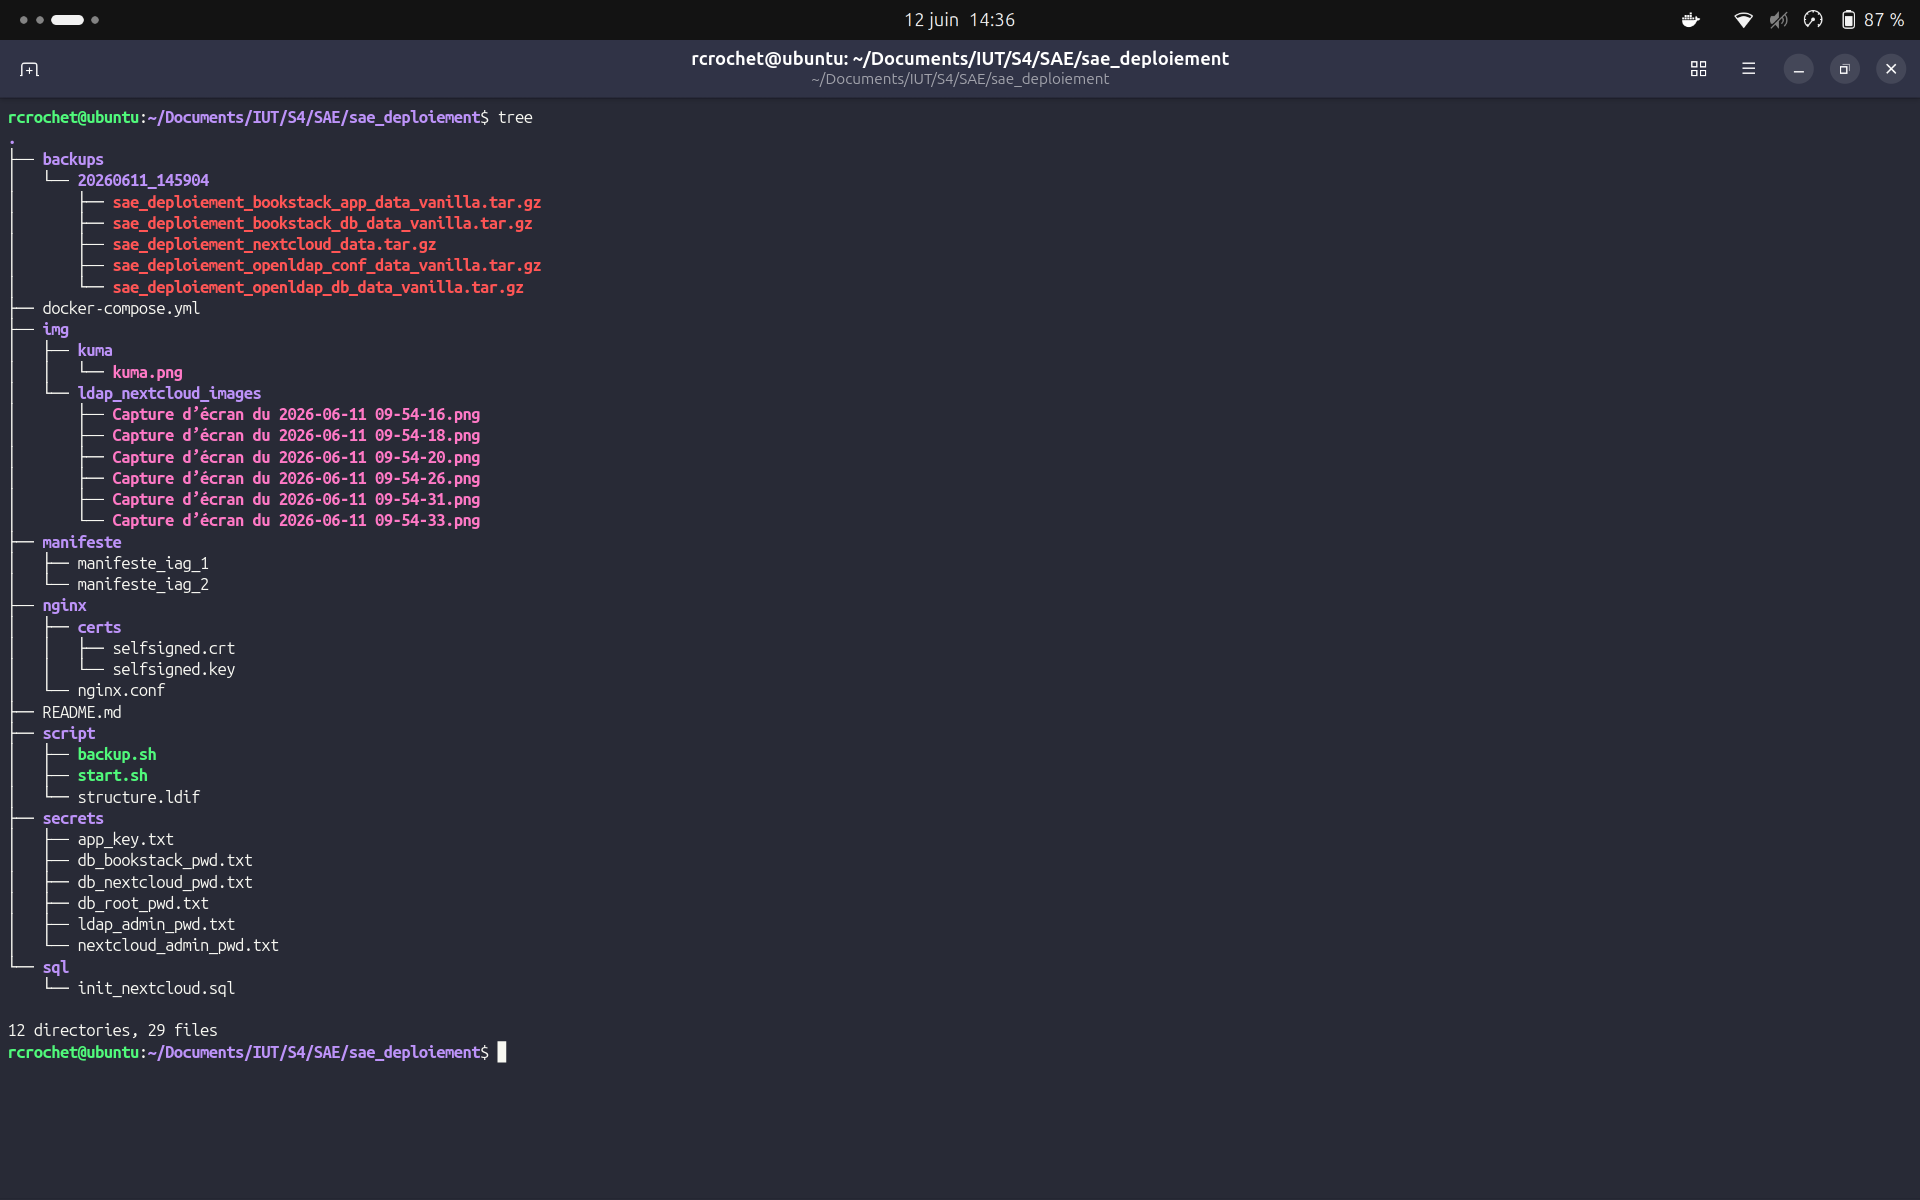
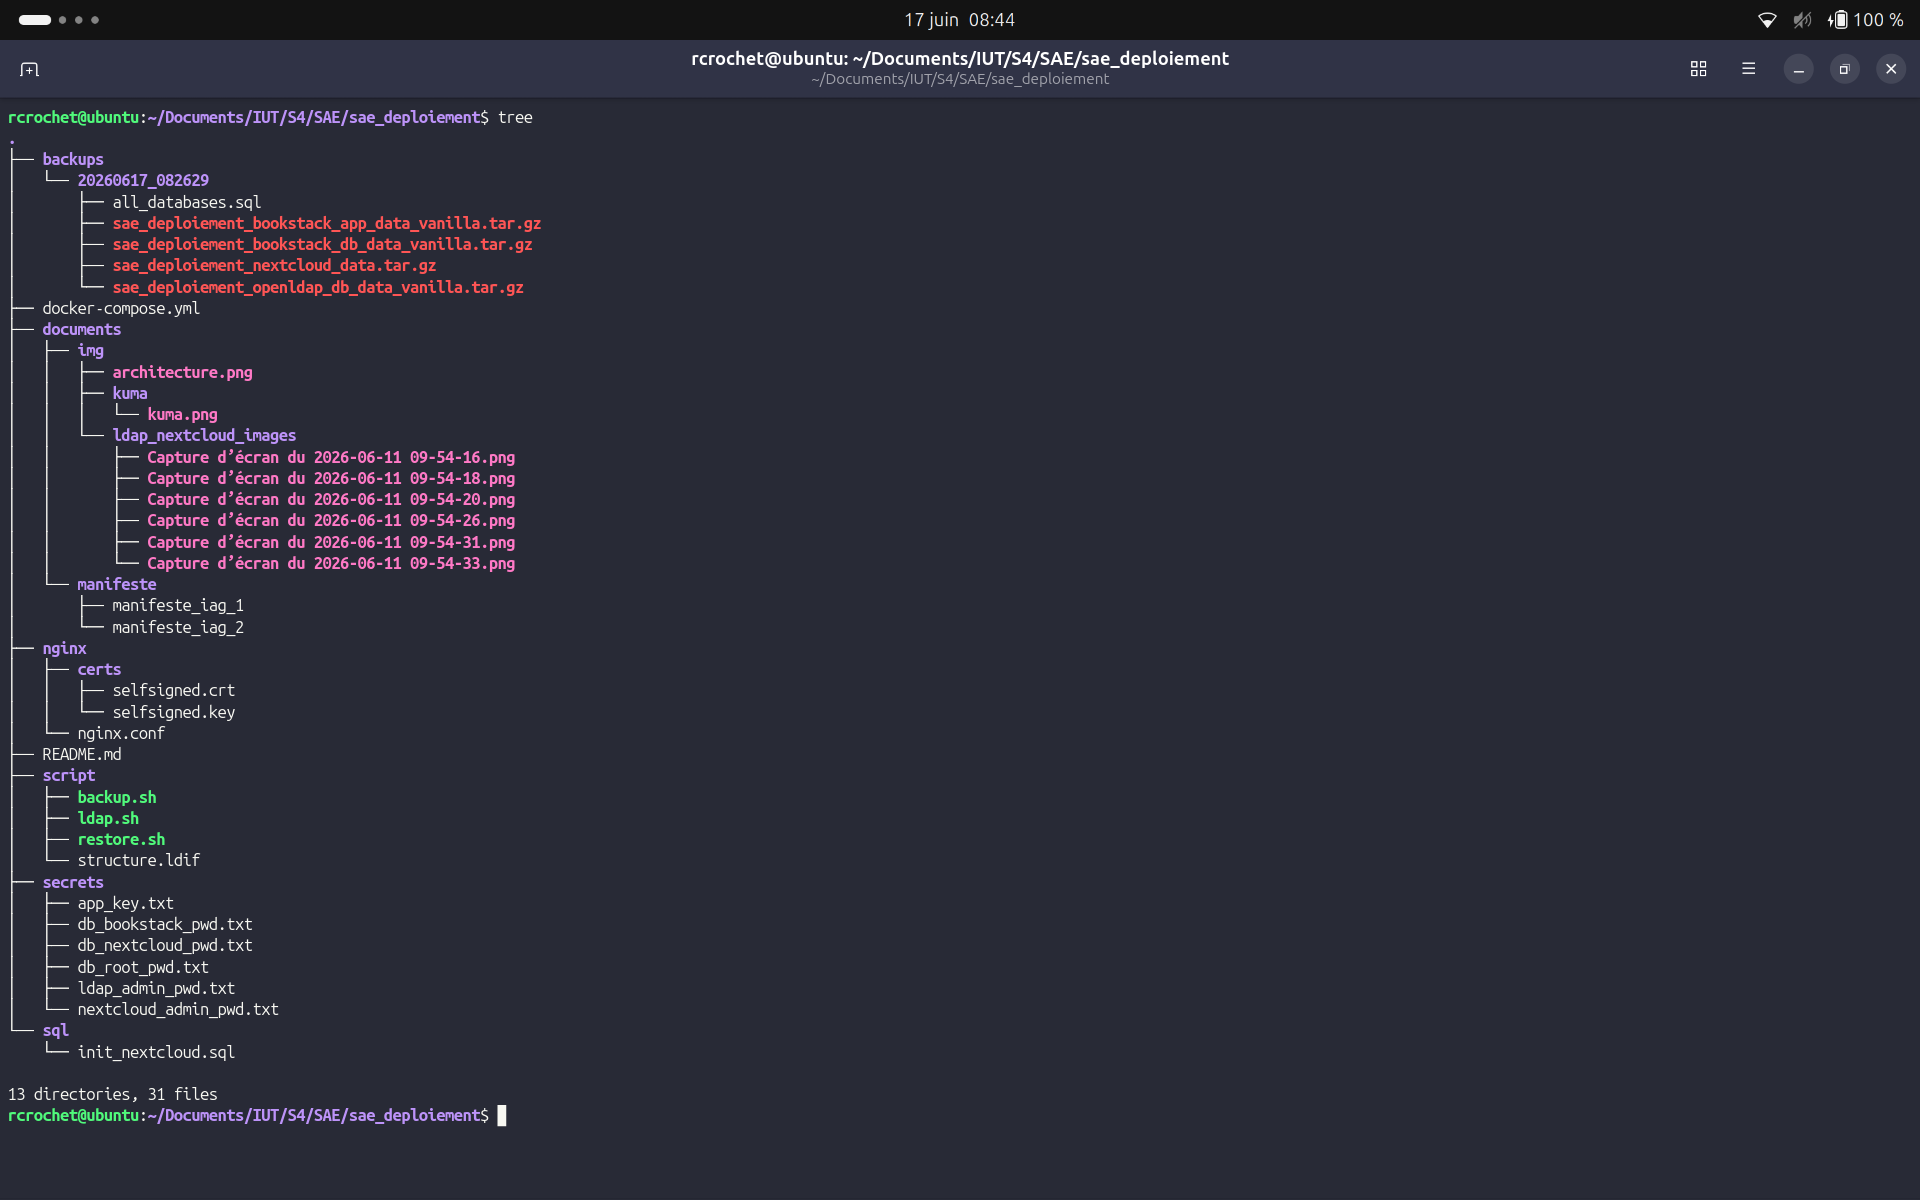
docs

diff --git a/README.md b/README.md
@@ -19,7 +19,7 @@ Nous avons structuré notre projet de manière professionnelle avec des dossiers
 
 ![Architecture du projet](documents/img/architecture.png)
 
-Notre infrastructure orchestre désormais **6 conteneurs interconnectés** :
+Notre infrastructure orchestre désormais **7 conteneurs interconnectés** :
 
 1. **MariaDB** : La base de données relationnelle mutualisée pour BookStack et Nextcloud (Réseau interne).
 2. **OpenLDAP** : Notre serveur d'annuaire local, configuré sur `dc=mongroupe,dc=local`.
@@ -27,6 +27,7 @@ Notre infrastructure orchestre désormais **6 conteneurs interconnectés** :
 4. **Nextcloud** : Le service de stockage et de partage de fichiers (Isolé sur le réseau interne).
 5. **phpLDAPadmin** : L'interface web d'administration de l'annuaire (Isolée sur le réseau interne).
 6. **Nginx (Reverse Proxy)** : Le point d'entrée public de notre serveur.
+7. **Uptime Kuma (Supervision)** : L'application Web de surveillance des services.
 
 ---
 
@@ -48,31 +49,31 @@ Afin de simuler un environnement de production réaliste, nous avons déployé u
 
 ---
 
-## 4. Déploiement et Automatisation de l'Infrastructure
+## 4. Tutoriel de Déploiement
 
-Pour garantir un déploiement propre et reproductible sans intervention manuelle à l'intérieur des conteneurs, nous avons poussé l'automatisation à son maximum (*Infrastructure as Code*).
+Pour garantir un déploiement propre et reproductible, voici la marche à suivre étape par étape :
 
-### Gestion Sécurisée des Mots de Passe (Docker Secrets)
+1. **Démarrage de l'infrastructure :** Lancer les conteneurs en arrière-plan avec la commande :
+```bash
+   docker compose up -d
 
-Pour éviter de stocker des informations sensibles en clair dans le fichier `docker-compose.yml`, nous avons implémenté les **Docker Secrets**. Les mots de passe sont stockés dans des fichiers texte isolés et injectés en toute sécurité directement dans la RAM des conteneurs (ex: `/run/secrets/db_root_pwd`).
+```
 
-### Automatisation de la Base de Données
+2. **Initialisation :** Patienter quelques instants que tous les services soient pleinement opérationnels (notamment le temps que MariaDB s'initialise et que Nextcloud termine son installation silencieuse).
+3. **Injection de l'annuaire LDAP :** Exécuter le script dédié pour peupler l'arborescence et créer les utilisateurs de test :
 
-Le conteneur MariaDB crée nativement la base `bookstackapp` via ses variables d'environnement. Pour Nextcloud, nous avons monté le fichier `sql/init_nextcloud.sql` dans le dossier `/docker-entrypoint-initdb.d/`. Au premier lancement, MariaDB lit ce script et crée automatiquement la base et l'utilisateur `nextcloud`.
+```bash
+   ./script/ldap.sh
 
-### Installation "Zero-Touch" de Nextcloud
+```
 
-Afin d'éviter d'avoir à remplir la page d'installation manuelle de Nextcloud, nous avons injecté les variables `NEXTCLOUD_ADMIN_USER` et `NEXTCLOUD_ADMIN_PASSWORD_FILE`. Cela permet à l'application de s'installer silencieusement en arrière-plan et de se lier à la base de données automatiquement au premier démarrage.
-
-### Automatisation du LDAP et Lancement
-
-Plutôt que de taper une simple commande `docker compose up`, nous avons créé le script `script/start.sh`. Il exécute la commande `ldapadd` depuis la machine hôte pour injecter notre fichier `structure.ldif`. Ce fichier crée l'arborescence (`ou=users`, `ou=groups`) et génère 3 scientifiques de test (Einstein, Curie, Turing).
+4. **Connexion :** L'infrastructure est prête. Vous pouvez vous connecter aux différentes interfaces via votre navigateur (ex: `https://bookstack.mongroupe.local`).
 
 ---
 
 ## 5. Intégration LDAP dans Nextcloud
 
-L'intégration de l'annuaire dans Nextcloud s'effectue via son interface d'administration, en paramétrant finement les filtres de recherche. Nous avons ajouté un dossier `ldap_nextcloud_images` qui permet de visualiser la configuration exacte utilisée.
+L'intégration de l'annuaire dans Nextcloud s'effectue via son interface d'administration, en paramétrant finement les filtres de recherche. Nous avons ajouté un dossier `img/ldap_nextcloud_images` qui permet de visualiser la configuration exacte utilisée.
 
 * **Filtre des utilisateurs :** `(&(objectclass=inetOrgPerson))` (Permet à Nextcloud de compter le nombre d'utilisateurs humains valides dans l'annuaire).
 * **Filtre de connexion :** `(&(&(objectclass=inetOrgPerson))(uid=%uid))` (Fait correspondre la saisie de l'utilisateur avec l'attribut `uid` du LDAP).
@@ -80,9 +81,22 @@ L'intégration de l'annuaire dans Nextcloud s'effectue via son interface d'admin
 
 ---
 
-## 6. Sauvegarde et Restauration (Disaster Recovery Plan)
+## 6. Sauvegarde et Restauration
 
-Afin de garantir la pérennité des données, nous avons conçu deux scripts bash (`backup.sh` et `restore.sh`). Ces scripts utilisent un conteneur temporaire `alpine` pour archiver (au format `.tar.gz`) les volumes critiques montés en lecture seule (`ro`), et les stocker de manière horodatée dans un dossier local `backups/`.
+Afin de garantir la pérennité des données, nous avons conçu deux scripts bash (`backup.sh` et `restore.sh`).
+
+**Sauvegarde (Backup à chaud) :**
+La sauvegarde s'effectue avec l'infrastructure entièrement allumée. Le script archive les volumes et extrait un dump SQL à la volée.
+
+> ⚠️ **Analyse critique :** Effectuer une sauvegarde globale "à chaud" de tous les volumes en même temps comporte un risque d'incohérence si une donnée est écrite au moment exact de la sauvegarde. Dans un contexte de production strict, une sauvegarde séquentielle volume par volume ou avec un arrêt temporaire des services serait préférable.
+
+**Restauration (Restore) :**
+Le script de restauration s'occupe de tout remettre en ordre automatiquement (arrêt des services, suppression des volumes corrompus, extraction des archives et redémarrage). Il est obligatoire de lui préciser le chemin du backup ciblé lors de son exécution :
+
+```bash
+sudo ./script/restore.sh ./backups/NOM_DU_BACKUP/
+
+```
 
 | Nom du volume | Service associé | Type de données stockées | Criticité |
 | --- | --- | --- | --- |
@@ -92,19 +106,21 @@ Afin de garantir la pérennité des données, nous avons conçu deux scripts bas
 | **`sae_deploiement_openldap_db_data_vanilla`** | OpenLDAP | Les données de l'annuaire (l'arbre DIT, les utilisateurs complets, les groupes et les mots de passe hachés). | **Acceptable (Reconstructible).** *Normalement critique*, mais grâce au script `start.sh` et `structure.ldif`, ce volume se recrée automatiquement. |
 | **`sae_deploiement_openldap_conf_data_vanilla`** | OpenLDAP | Fichiers de configuration interne du serveur LDAP. | **Acceptable (Reconstructible).** Ces fichiers sont générés automatiquement par l'image Docker au démarrage. |
 
+---
+
 ## 7. Supervision de l'infrastructure (Uptime Kuma)
 
-Afin de s'assurer de la disponibilité de nos services et d'être alertés en cas de panne, nous avons déployé un conteneur dédié à la supervision : **Uptime Kuma**. 
+Afin de s'assurer de la disponibilité de nos services et d'être alertés en cas de panne, nous avons déployé un conteneur dédié à la supervision : **Uptime Kuma**.
 
 Cet outil interroge nos services en temps réel à travers notre réseau virtuel sécurisé pour vérifier qu'ils répondent correctement.
 
 Voici un aperçu de notre tableau de bord de supervision en action :
 
-![Tableau de bord Uptime Kuma affichant l'état des services locaux](documents/img/kuma/kuma.png)
+![Supervision Kuma](documents/img/kuma/kuma.png)
 
 ---
 
-## 7. Observations et Difficultés rencontrées
+## 8. Observations et Difficultés rencontrées
 
 **1. Le filtre de recherche LDAP BookStack erroné**
 Le sujet indique d'utiliser la variable `(uid=${input})`. Cependant, la documentation de BookStack attend la syntaxe `(uid=${user})`. Remplacer cette variable a résolu le problème (en n'oubliant pas de doubler le symbole `$${user}` dans le `.yml` pour l'échappement Docker).
@@ -133,3 +149,11 @@ Bien que configuré pour s'installer silencieusement ("Zero-Touch"), Nextcloud d
 **8. Monitoring avec Uptime Kuma et l'isolement DNS Docker**
 Lors du déploiement de sondes Uptime Kuma pour superviser la disponibilité de nos services, les requêtes échouaient systématiquement (`ENOTFOUND`), malgré un fonctionnement correct sur le navigateur hôte.
 *Solution apportée :* Le conteneur Uptime Kuma évoluant dans son propre sous-réseau hermétique, il ignorait le fichier `hosts` local de la machine. Nous avons dû forcer la résolution DNS interne en déclarant explicitement nos noms de domaine virtuels `.local` dans les attributs réseau de Docker (`aliases`), permettant ainsi à Uptime Kuma de communiquer correctement avec le Reverse Proxy Nginx.
+
+**9. Conflits de contexte d'exécution (`sudo` vs utilisateur) dans les scripts de sauvegarde**
+Lors de l'exécution initiale du script `backup.sh` avec les droits administrateur (`sudo`), l'export SQL échouait avec l'erreur `service "mariadb" is not running`, bien que le conteneur soit actif.
+*Solution apportée :* L'utilisateur `root` ne partageant pas le même environnement de projet Docker Compose que notre utilisateur courant, nous avons abandonné la commande `docker compose exec` au profit de `docker exec` couplé au nom absolu du conteneur. Cela permet au script d'interagir directement avec le moteur Docker, quel que soit l'utilisateur qui l'exécute.
+
+**10. Plantages Bash et conflits de nommage lors de la restauration**
+L'élaboration du script de restauration (`restore.sh`) a révélé des instabilités liées à la syntaxe Bash stricte et au comportement de Docker en cas de valeurs nulles (générant des arguments `-v` invalides qui faisaient planter le démon Docker). Par ailleurs, lancer `docker compose down` en mode `sudo` ne supprimait pas les anciens conteneurs, générant des conflits de nom lors de la restauration.
+*Solution apportée :* Nous avons sécurisé le script en intégrant des variables de validation strictes (`if [ -z "$1" ]`) pour empêcher les exécutions à vide. Afin de garantir un environnement de restauration "Zero-Trust", nous avons codé la destruction inconditionnelle et forcée des anciens conteneurs via `docker rm -f` avant de procéder à la recréation de l'infrastructure.